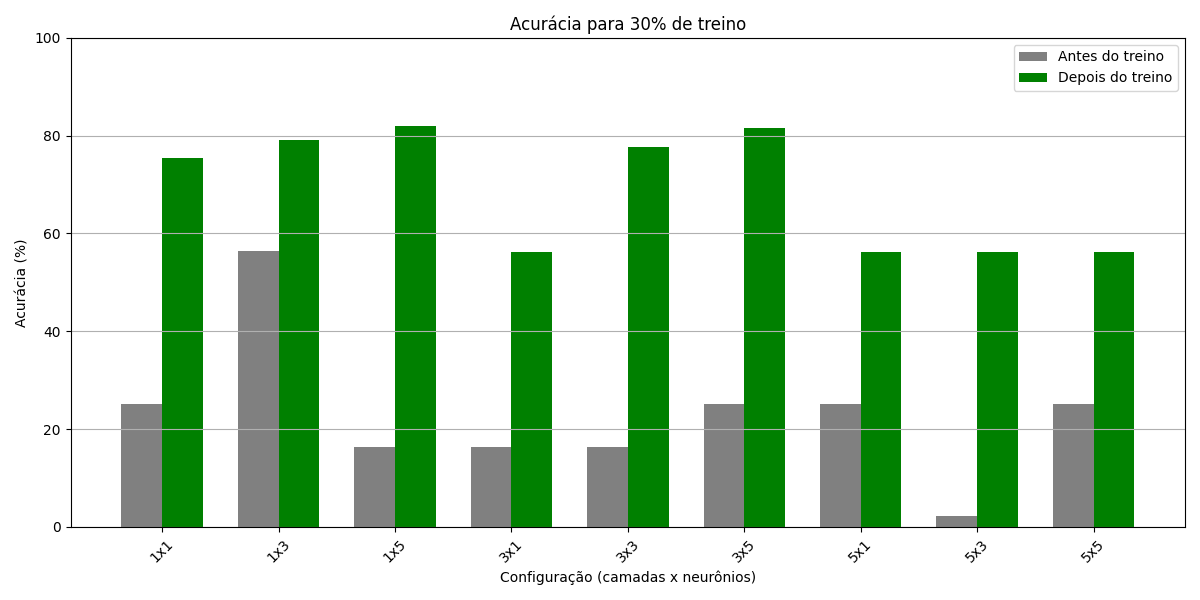
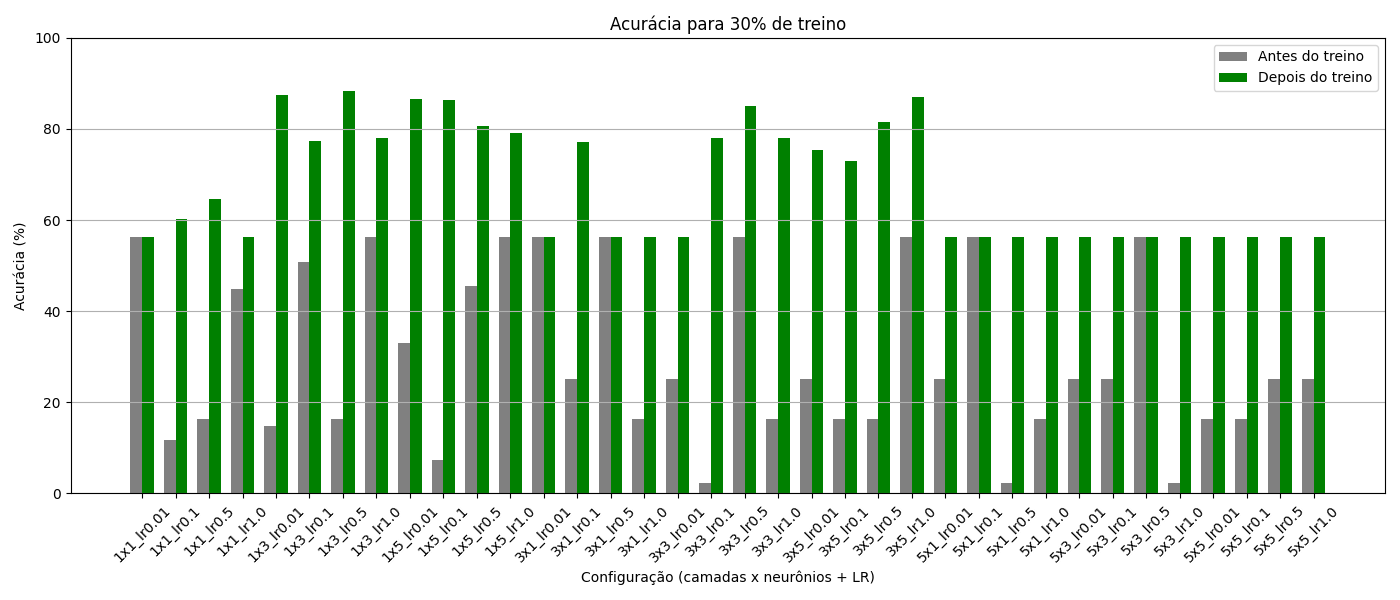
Atualização simples no teste da rede neural

diff --git a/t2/neural.py b/t2/neural.py
@@ -7,26 +7,26 @@ import matplotlib.pyplot as plt
 from sklearn.preprocessing import OneHotEncoder, StandardScaler
 from sklearn.metrics import accuracy_score
 
-# Defina os valores fixos que você deseja usar
-LEARNING_RATE = 0.3
-HIDDEN_LAYERS_SIZES = [1, 3, 5]
-NEURONS_PER_LAYERS = [1, 3, 5]
+
+
+LEARNING_RATES = [0.1]
+HIDDEN_LAYERS_SIZES = [5]
+NEURONS_PER_LAYERS = [5]
 TRAINING_PERCENTAGES = [0.3]
 EPOCHS = 300
+METHODS = ['sigmoid', 'tanh', 'relu']
+
 
 def testar_neural_network(data_path="dataset/treino_sinais_vitais_com_label.csv"):
     data = pd.read_csv(data_path).values
-    training_percentages = TRAINING_PERCENTAGES
-
     os.makedirs("graficos/neural", exist_ok=True)
 
     encoder = OneHotEncoder(sparse_output=False)
-    all_labels = data[:, -1].reshape(-1, 1)
-    encoder.fit(all_labels)
+    encoder.fit(data[:, -1].reshape(-1, 1))
 
-    resultados = []  # tuplas (label, perc, acc_before, acc_after)
+    resultados = []
 
-    for perc in training_percentages:
+    for perc in TRAINING_PERCENTAGES:
         treino = data[:int(len(data) * perc)]
         teste = data[int(len(data) * perc):]
 
@@ -40,82 +40,110 @@ def testar_neural_network(data_path="dataset/treino_sinais_vitais_com_label.csv"
         y_train_encoded = encoder.transform(y_train)
         y_test_int = y_test.astype(int).flatten()
 
-        for hidden_layers in HIDDEN_LAYERS_SIZES:
-            for neurons_per_layer in NEURONS_PER_LAYERS:
-                print(f"\nTreino {int(perc*100)}% | {hidden_layers} camadas, {neurons_per_layer} neurônios")
+        # Criar rede base com sigmoid e armazenar pesos/bias iniciais
+        base_nn = NeuralNetwork(
+            inputSize=X_train.shape[1],
+            numClasses=y_train_encoded.shape[1],
+            hiddenLayersSize=HIDDEN_LAYERS_SIZES[0],
+            neuronsPerLayer=NEURONS_PER_LAYERS[0],
+            learningRate=LEARNING_RATES[0],
+            method='sigmoid'
+        )
+        initial_weights = base_nn.getAllWeights()
 
-                nn = NeuralNetwork(
-                    inputSize=X_train.shape[1],
-                    numClasses=y_train_encoded.shape[1],
-                    hiddenLayersSize=hidden_layers,
-                    neuronsPerLayer=neurons_per_layer
-                )
+        for method in METHODS:
+            for hidden_layers in HIDDEN_LAYERS_SIZES:
+                for neurons_per_layer in NEURONS_PER_LAYERS:
+                    for learning_rate in LEARNING_RATES:
+                        print(f"\nMétodo: {method} | Treino {int(perc*100)}% | {hidden_layers} camadas, {neurons_per_layer} neurônios, LR={learning_rate}")
 
-                y_pred_before = [nn.predictClass(x) for x in X_test]
-                acc_before = accuracy_score(y_test_int, y_pred_before)
+                        nn = NeuralNetwork(
+                            inputSize=X_train.shape[1],
+                            numClasses=y_train_encoded.shape[1],
+                            hiddenLayersSize=hidden_layers,
+                            neuronsPerLayer=neurons_per_layer,
+                            learningRate=learning_rate,
+                            method=method
+                        )
+                        # Aplicar pesos/bias iniciais para garantir igualdade
+                        nn.setAllWeights(initial_weights)
 
-                for epoch in range(EPOCHS):
-                    for x, y in zip(X_train, y_train_encoded):
-                        nn.train(x, y)
 
-                y_pred_after = [nn.predictClass(x) for x in X_test]
-                acc_after = accuracy_score(y_test_int, y_pred_after)
+                        y_pred_before = [nn.predictClass(x) for x in X_test]
+                        acc_before = accuracy_score(y_test_int, y_pred_before)
 
-                print(f"Acurácia antes: {acc_before*100:.2f}%, depois: {acc_after*100:.2f}%")
+                        for _ in range(EPOCHS):
+                            for x, y in zip(X_train, y_train_encoded):
+                                nn.train(x, y)
 
-                label = f"{hidden_layers}x{neurons_per_layer}"
-                resultados.append((label, f"{int(perc*100)}%", acc_before*100, acc_after*100))
+                        y_pred_after = [nn.predictClass(x) for x in X_test]
+                        acc_after = accuracy_score(y_test_int, y_pred_after)
 
-    # Criar um gráfico para cada % de treino, com barras duplas para cada configuração
-    for perc in training_percentages:
-        labels = []
-        acc_before_vals = []
-        acc_after_vals = []
-        for (label, p, acc_b, acc_a) in resultados:
-            if p == f"{int(perc*100)}%":
-                labels.append(label)
-                acc_before_vals.append(acc_b)
-                acc_after_vals.append(acc_a)
+                        print(f"Acurácia antes: {acc_before*100:.2f}%, depois: {acc_after*100:.2f}%")
 
-        x = np.arange(len(labels))
-        width = 0.35
+                        resultados.append((method, acc_before*100, acc_after*100))
 
-        plt.figure(figsize=(12, 6))
-        plt.bar(x - width/2, acc_before_vals, width=width, label="Antes do treino", color="gray")
-        plt.bar(x + width/2, acc_after_vals, width=width, label="Depois do treino", color="green")
+    # Gráfico comparativo
+    labels, accs_before, accs_after = zip(*resultados)
+    x = np.arange(len(labels))
+    width = 0.35
 
-        plt.xticks(x, labels, rotation=45)
-        plt.xlabel("Configuração (camadas x neurônios)")
-        plt.ylabel("Acurácia (%)")
-        plt.title(f"Acurácia para {int(perc*100)}% de treino")
-        plt.ylim(0, 100)
-        plt.grid(axis="y")
-        plt.legend()
-        plt.tight_layout()
+    plt.figure(figsize=(8, 6))
+    plt.bar(x - width/2, accs_before, width=width, label="Antes", color="gray")
+    plt.bar(x + width/2, accs_after, width=width, label="Depois", color="green")
+    plt.xticks(x, labels)
+    plt.ylabel("Acurácia (%)")
+    plt.title("Comparação de funções de ativação")
+    plt.ylim(0, 100)
+    plt.grid(axis="y")
+    plt.legend()
+    plt.tight_layout()
+    plt.savefig("graficos/neural/comparativo_metodos_ativacao.png")
+    plt.close()
 
-        plt.savefig(f"graficos/neural/acuracia_{int(perc*100)}pct.png")
-        plt.close()
+
 
 
 class Perceptron:
-    def __init__(self, inputSize):
+    def __init__(self, inputSize, learningRate, method='sigmoid'):
         self.weights = np.random.uniform(-1, 1, inputSize)
         self.bias = random.uniform(-1, 1)
-        self.learningRate = LEARNING_RATE
+        self.learningRate = learningRate
         self.inputSize = inputSize
         self.lastOutput = None
         self.lastInputs = None
         self.delta = None
+        self.method = method
     
+    def activationFunction(self, x):
+        if self.method == 'sigmoid':
+            return 1 / (1 + math.exp(-x))
+        elif self.method == 'relu':
+            return max(0, x)
+        elif self.method == 'tanh':
+            return math.tanh(x)
+        else:
+            raise ValueError("Método de ativação desconhecido. Use 'sigmoid', 'relu' ou 'tanh'.")
+
     def predict(self, inputs):
         self.lastInputs = np.array(inputs)
         if len(inputs) != len(self.weights):
             raise ValueError("Input size must match weights size.")
         
         weightedSum = np.dot(inputs, self.weights) + self.bias
-        self.lastOutput = 1 / (1 + math.exp(-weightedSum))  # Sigmoid activation function
+        self.lastOutput = self.activationFunction(weightedSum)
         return self.lastOutput
     
+    def calculateDelta(self, error):
+        if self.method == 'sigmoid':
+            return self.lastOutput * (1 - self.lastOutput) * error
+        elif self.method == 'relu':
+            return (self.lastOutput > 0).astype(float) * error
+        elif self.method == 'tanh':
+            return (1 - math.tanh(self.lastOutput)**2) * error
+        else:
+            raise ValueError("Método de ativação desconhecido. Use 'sigmoid', 'relu' ou 'tanh'.")
+
     def updateWeights(self, error):
         self.delta = self.lastOutput * (1 - self.lastOutput) * error
         for i in range(self.inputSize):
@@ -126,10 +154,10 @@ class Perceptron:
         self.bias += self.learningRate * self.delta
 
 class OutputLayer:
-    def __init__ (self, inputSize, numClasses):
+    def __init__ (self, inputSize, numClasses, learningRate):
         self.weights = np.random.uniform(-1, 1, (numClasses, inputSize)) # Vetor de pesos para cada classe
         self.bias = np.random.uniform(-1, 1, numClasses)
-        self.learningRate = LEARNING_RATE
+        self.learningRate = learningRate
         self.numClasses = numClasses
         self.lastOutputs = None
         self.lastInputs = None
@@ -156,11 +184,13 @@ class OutputLayer:
             self.weights[i] += self.learningRate * self.deltas[i] * self.lastInputs
 
 class NeuralNetwork:
-    def __init__(self, inputSize, numClasses, hiddenLayersSize=1, neuronsPerLayer=1):
+    def __init__(self, inputSize, numClasses, hiddenLayersSize=1, neuronsPerLayer=1, learningRate=0.01, method='sigmoid'):
         self.inputSize = inputSize
         self.numClasses = numClasses
-        self.outputLayer = OutputLayer(neuronsPerLayer, numClasses)
+        self.learningRate = learningRate
+        self.outputLayer = OutputLayer(neuronsPerLayer, numClasses, self.learningRate)
         self.hiddenLayers = []
+        self.method = method
         self.createLayers(hiddenLayersSize, neuronsPerLayer)
     
     def createLayers(self, hiddenLayersSize, neuronsPerLayer):
@@ -168,7 +198,7 @@ class NeuralNetwork:
         for _ in range(hiddenLayersSize):
             layer = []
             for _ in range(neuronsPerLayer):
-                layer.append(Perceptron(n))
+                layer.append(Perceptron(n, self.learningRate, self.method))
             n = neuronsPerLayer
             self.hiddenLayers.append(layer)
 
@@ -220,6 +250,15 @@ class NeuralNetwork:
         for i, layer in enumerate(self.hiddenLayers):
             weights[f"hidden_{i}"] = [neuron.weights.tolist() for neuron in layer]
         return weights
+    #Para testes
+    def setAllWeights(self, all_weights):
+        # Output layer
+        self.outputLayer.weights = np.array(all_weights["output"])
+        
+        # Hidden layers
+        for i, layer in enumerate(self.hiddenLayers):
+            for j, neuron in enumerate(layer):
+                neuron.weights = np.array(all_weights[f"hidden_{i}"][j])
 
 if __name__ == "__main__":
     testar_neural_network("dataset/treino_sinais_vitais_com_label.csv")
